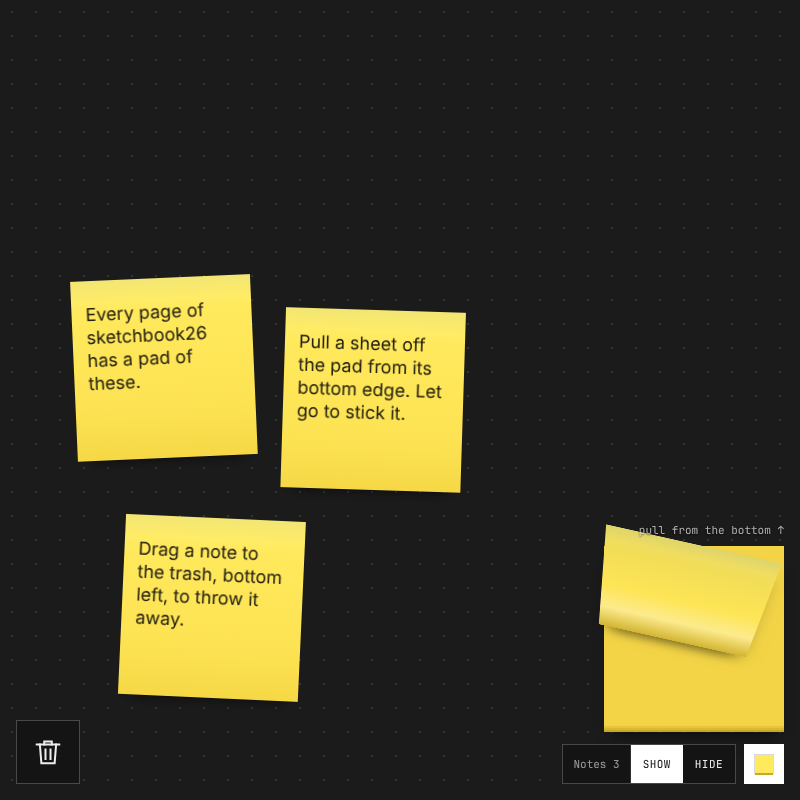
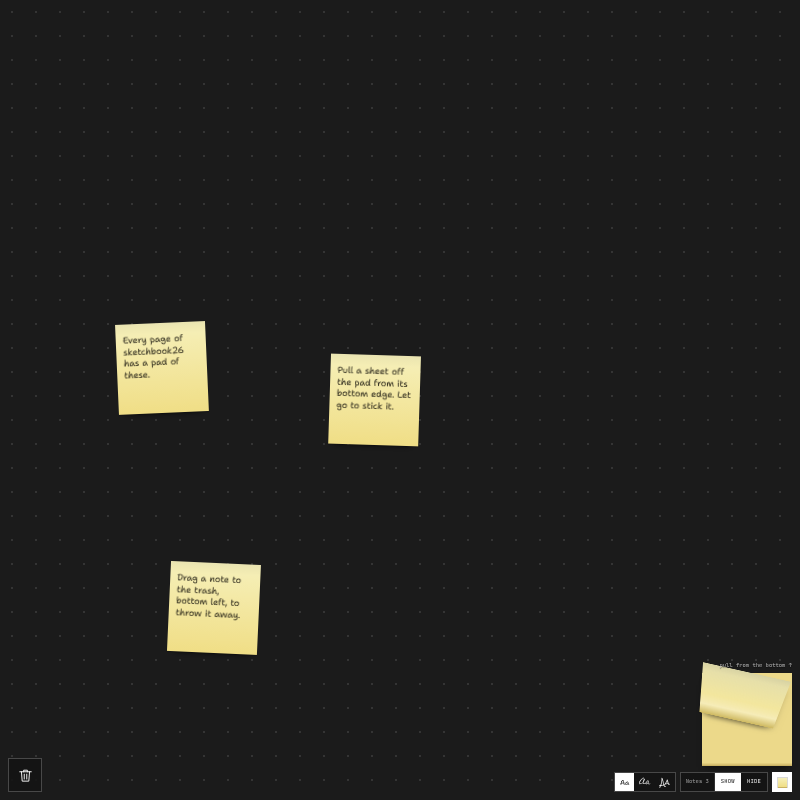
Sticky notes: lighter paper, half size, three pens
- Paper is now a #F6F0BA to #F0DE86 gradient, with the pad edges retinted to match.
- Everything is drawn at SCALE = 0.5: notes, pad, peel distance, dock,
  trash. One constant to change.
- A pen control in the dock: Shantell Sans (default), Homemade Apple,
  Rock Salt. Each note keeps the pen it was peeled with, so its text
  always fits. The choice is remembered site-wide.

Claude-Session: https://claude.ai/code/session_01SpCwMU1UzHJQeiPvV7BcPv

Changed region(s): [[0.0625, 0.3438, 0.5938, 0.875], [0.7188, 0.6562, 1.0, 1.0], [0.0, 0.9062, 0.0938, 1.0]]

diff --git a/assets/sticky.js b/assets/sticky.js
@@ -8,6 +8,7 @@
  * - The square button at the bottom right brings out a pad of notes.
  * - Grab the bottom of the top sheet and pull: it peels off and follows the pointer.
  *   Let go anywhere and it sticks there. Start typing straight away.
+ * - Three pens (Shantell Sans, Homemade Apple, Rock Salt) in the dock; a note keeps the pen it was peeled with.
  * - Notes never grow or resize and have one font size. When a note is full it
  *   stops taking text: grab another one from the pad.
  * - Drag a note onto the trash can at the bottom left and let go to throw it away.
@@ -25,8 +26,20 @@
   const OPEN_ON_LOAD = !!script && script.dataset.open === 'true';
   const SEED = !!script && script.dataset.seed === 'true';
 
-  const SIZE = 180;          // note size in CSS px, the same on every page and device
-  const PEEL = 110;          // how far (px) the bottom has to be pulled before the sheet comes off
+  // Everything below is designed at full size and drawn at SCALE (Max, 2026-11-22: half size).
+  const SCALE = 0.5;
+  const BASE = 180;          // note size at full scale
+  const SIZE = BASE * SCALE; // note size in CSS px, the same on every page and device
+  const PEEL = 110 * SCALE;  // how far (px) the bottom has to be pulled before the sheet comes off
+  const PERSP = 700 * SCALE; // perspective for the peel
+  const FONT_KEY = 'sb26.sticky.font';
+  // The pens. Each note keeps the one it was peeled with, so its text always fits.
+  const FONTS = [
+    { id: 'shantell', name: 'Shantell Sans', family: "'Shantell Sans', 'Comic Sans MS', cursive", lh: 23 },
+    { id: 'apple', name: 'Homemade Apple', family: "'Homemade Apple', cursive", lh: 27 },
+    { id: 'salt', name: 'Rock Salt', family: "'Rock Salt', cursive", lh: 27 },
+  ];
+  const fontOf = (id) => FONTS.find((f) => f.id === id) || FONTS[0];
   const GRAB_FROM = 0.45;    // the sheet can only be grabbed below this fraction of its height
   const path = location.pathname.replace(/index\.html$/, '').replace(/\/*$/, '/');
   const KEY = 'sb26.sticky:' + path;
@@ -49,8 +62,8 @@
   .sb26.sb-hidden.sb-layer, .sb26.sb-hidden.sb-trash, #sb26s.sb-hidden .sb-pad, #sb26s.sb-hidden .sb-padbtn { display: none; }
 
   /* one sheet of paper: the pad's top sheet and every note on the page */
-  .sb26 .sb-paper { position: absolute; left: 0; top: 0; width: ${SIZE}px; height: ${SIZE}px; pointer-events: auto; touch-action: none;
-    background: linear-gradient(180deg, #fff27a 0%, #ffe95c 18%, #fde353 70%, #f6d846 100%);
+  .sb26 .sb-paper { position: absolute; left: 0; top: 0; width: ${BASE}px; height: ${BASE}px; pointer-events: auto; touch-action: none;
+    background: linear-gradient(180deg, #f6f0ba 0%, #f0de86 100%);
     transform-origin: 50% 0; will-change: transform; -webkit-user-select: none; user-select: none; }
   .sb26 .sb-paper::before { content: ''; position: absolute; left: 0; right: 0; top: 0; height: 22px; background: linear-gradient(180deg, rgba(0,0,0,.05), rgba(0,0,0,0)); pointer-events: none; }
   .sb26 .sb-shade { position: absolute; inset: 0; pointer-events: none; opacity: 0;
@@ -67,21 +80,23 @@
 
   .sb26 .sb-ta { position: absolute; left: 14px; right: 14px; top: 22px; bottom: 14px; width: auto; height: auto; margin: 0; padding: 0;
     border: 0; outline: 0; resize: none; overflow: hidden; background: transparent; color: #1d1a10; caret-color: #1d1a10;
-    font: 400 18px/23px 'Schibsted Grotesk', system-ui, -apple-system, 'Segoe UI', sans-serif; overflow-wrap: anywhere; white-space: pre-wrap;
+    font-size: 18px; line-height: 23px; font-family: 'Shantell Sans', cursive; overflow-wrap: anywhere; white-space: pre-wrap;
     pointer-events: none; -webkit-user-select: text; user-select: text; }
   .sb26 .sb-editing .sb-ta { pointer-events: auto; }
+  .sb26 .sb-f-apple .sb-ta { font-family: 'Homemade Apple', cursive; line-height: 27px; }
+  .sb26 .sb-f-salt .sb-ta { font-family: 'Rock Salt', cursive; line-height: 27px; }
   .sb26 .sb-ta::placeholder { color: rgba(60,50,10,.35); }
   .sb26 .sb-ta::selection { background: rgba(0,0,0,.16); }
 
   /* the pad */
-  .sb26 .sb-pad { position: absolute; right: 16px; bottom: 68px; width: ${SIZE}px; height: ${SIZE + 8}px;
+  .sb26 .sb-pad { position: absolute; right: 16px; bottom: 68px; width: ${BASE}px; height: ${BASE + 8}px;
     transition: transform .3s cubic-bezier(.2,.9,.3,1.1), opacity .2s; }
   .sb26 .sb-pad.sb-closed { transform: translateY(24px); opacity: 0; visibility: hidden; transition: transform .2s, opacity .2s, visibility 0s .2s; }
-  .sb26 .sb-under { position: absolute; left: 0; width: ${SIZE}px; height: ${SIZE}px; background: #ecc93c; pointer-events: none; }
-  .sb26 .sb-under:nth-child(1) { top: 8px; background: #c9a826; box-shadow: 0 10px 14px -8px rgba(0,0,0,.6); }
-  .sb26 .sb-under:nth-child(2) { top: 6px; background: #dcb832; }
-  .sb26 .sb-under:nth-child(3) { top: 4px; background: #e8c63c; }
-  .sb26 .sb-under:nth-child(4) { top: 2px; background: #f3d446; }
+  .sb26 .sb-under { position: absolute; left: 0; width: ${BASE}px; height: ${BASE}px; background: #e6d47e; pointer-events: none; }
+  .sb26 .sb-under:nth-child(1) { top: 8px; background: #c9b263; box-shadow: 0 10px 14px -8px rgba(0,0,0,.6); }
+  .sb26 .sb-under:nth-child(2) { top: 6px; background: #d8c172; }
+  .sb26 .sb-under:nth-child(3) { top: 4px; background: #e3ce7e; }
+  .sb26 .sb-under:nth-child(4) { top: 2px; background: #ecd98a; }
   .sb26 .sb-sheet { cursor: default; box-shadow: 0 1px 0 rgba(0,0,0,.12); }
   .sb26 .sb-sheet.sb-grab-zone { cursor: grab; }
   .sb26 .sb-sheet.sb-peeling { cursor: grabbing; box-shadow: 0 18px 22px -12px rgba(0,0,0,.55); }
@@ -90,7 +105,7 @@
   @keyframes sb-fresh { from { opacity: 0; } }
   /* a corner that is already lifting a little, so it is clear where to grab */
   .sb26 .sb-ear { position: absolute; right: 0; bottom: 0; width: 20px; height: 20px; pointer-events: none; transition: width .15s, height .15s;
-    background: linear-gradient(315deg, rgba(0,0,0,0) 0 48%, rgba(90,70,0,.22) 50%, #fff6a0 54%, #f5da55 100%); }
+    background: linear-gradient(315deg, rgba(0,0,0,0) 0 48%, rgba(90,70,0,.22) 50%, #fbf7d6 54%, #efdf93 100%); }
   .sb26 .sb-sheet.sb-grab-zone .sb-ear { width: 30px; height: 30px; }
   .sb26 .sb-sheet.sb-peeling .sb-ear { width: 0; height: 0; }
   .sb26 .sb-hint { position: absolute; right: 0; bottom: calc(100% + 8px); white-space: nowrap; color: rgba(238,238,238,.7); text-shadow: 0 1px 2px rgba(0,0,0,.6); pointer-events: none; transition: opacity .3s; }
@@ -103,11 +118,12 @@
   .sb26 .sb-seg button { border: 0; background: none; padding: 0 12px; cursor: pointer; text-transform: uppercase; letter-spacing: .04em; }
   .sb26 .sb-seg button[aria-pressed="true"] { background: #fff; color: #111; }
   .sb26 .sb-seg button:not([aria-pressed="true"]):hover { background: rgba(255,255,255,.08); }
+  .sb26 .sb-fonts button { text-transform: none; letter-spacing: 0; font-size: 14px; padding: 0 10px; }
   .sb26 .sb-padbtn { width: 40px; height: 40px; padding: 0; border: 1px solid rgba(255,255,255,.22); background: rgba(20,20,20,.9); cursor: pointer; display: grid; place-items: center; }
   .sb26 .sb-padbtn:hover { border-color: rgba(255,255,255,.5); }
   .sb26 .sb-padbtn[aria-expanded="true"] { background: #fff; border-color: #fff; }
-  .sb26 .sb-padbtn i { display: block; width: 18px; height: 18px; background: #ffe95c; box-shadow: 0 2px 0 #c9a826; }
-  .sb26 .sb-padbtn[aria-expanded="true"] i { box-shadow: 0 2px 0 #c9a826, 0 0 0 1px rgba(0,0,0,.15); }
+  .sb26 .sb-padbtn i { display: block; width: 18px; height: 18px; background: linear-gradient(180deg, #f6f0ba, #f0de86); box-shadow: 0 2px 0 #c9b263; }
+  .sb26 .sb-padbtn[aria-expanded="true"] i { box-shadow: 0 2px 0 #c9b263, 0 0 0 1px rgba(0,0,0,.15); }
   .sb26 button:focus-visible { outline: 2px solid #28e5b0; outline-offset: 2px; }
 
   /* the trash can */
@@ -127,12 +143,15 @@
     .sb26 .sb-note.sb-full, .sb26 .sb-sheet.sb-fresh, .sb26.sb-trash.sb-gulp { animation: none; }
   }`;
 
+  // Draw the stylesheet at SCALE: every length over 1.5px is scaled; hairlines stay.
+  const scaledCss = css.replace(/(\d*\.?\d+)px/g, (m, v) => (Number(v) <= 1.5 ? m : +(Number(v) * SCALE).toFixed(2) + 'px'));
+
   function addFonts() {
     const have = [...document.querySelectorAll('link[rel="stylesheet"]')].map((l) => l.href).join(' ');
-    if (/Schibsted\+Grotesk/.test(have) && /JetBrains\+Mono/.test(have)) return;
+    if (/Shantell\+Sans/.test(have)) return;
     const l = document.createElement('link');
     l.rel = 'stylesheet';
-    l.href = 'https://fonts.googleapis.com/css2?family=JetBrains+Mono&family=Schibsted+Grotesk:wght@400&display=swap';
+    l.href = 'https://fonts.googleapis.com/css2?family=JetBrains+Mono&family=Shantell+Sans&family=Homemade+Apple&family=Rock+Salt&display=swap';
     document.head.append(l);
   }
 
@@ -162,7 +181,10 @@
   padBtn.title = 'Sticky notes';
   padBtn.setAttribute('aria-label', 'Sticky note pad');
   padBtn.setAttribute('aria-expanded', 'false');
-  dock.append(seg, padBtn);
+  const fontSeg = el('div', 'sb-seg sb-fonts', FONTS.map((f) => `<button type="button" data-f="${f.id}" title="${f.name}" aria-label="${f.name}" style="font-family:${f.family.replace(/"/g, '')}">Aa</button>`).join(''));
+  fontSeg.setAttribute('role', 'group');
+  fontSeg.setAttribute('aria-label', 'Pen for the next note');
+  dock.append(fontSeg, seg, padBtn);
   root.append(pad, dock);
   const parts = [layer, root, trash];
 
@@ -179,6 +201,13 @@
   let notes = [];            // { id, fx (fraction of page width), py (page px), r, text, z, el, ta }
   let topZ = 1;
   let visible = store.get(VIS_KEY, true) !== false;
+  let font = fontOf(store.get(FONT_KEY, FONTS[0].id)).id;
+  function setFont(id) {
+    font = fontOf(id).id;
+    store.set(FONT_KEY, font);
+    for (const b of fontSeg.querySelectorAll('button')) b.setAttribute('aria-pressed', String(b.dataset.f === font));
+    if (sheet) sheet.className = sheet.className.replace(/ ?sb-f-\w+/g, '') + ` sb-f-${font}`;
+  }
 
   // Page width (without the scrollbar). x is kept as a fraction of it, y in page px.
   const W = () => document.documentElement.clientWidth || window.innerWidth;
@@ -187,7 +216,7 @@
   const uid = () => Date.now().toString(36) + Math.random().toString(36).slice(2, 6);
 
   function save() {
-    store.set(KEY, notes.map(({ id, fx, py, r, text, z }) => ({ id, fx, py: Math.round(py), r, text, z })));
+    store.set(KEY, notes.map(({ id, fx, py, r, text, z, f }) => ({ id, fx, py: Math.round(py), r, text, z, f })));
     updateCount();
   }
   let saveTimer = 0;
@@ -216,7 +245,7 @@
   // Top-left corner in page px: x from the stored fraction of the page width
   // (so notes stay put across window sizes), y as stored.
   function placeOf(n) {
-    const x = clamp(n.fx * W() - SIZE / 2, -SIZE + 48, W() - 48);
+    const x = clamp(n.fx * W() - SIZE / 2, -SIZE + 48 * SCALE, W() - 48 * SCALE);
     const y = Math.max(0, n.py - SIZE / 2);
     return { x, y };
   }
@@ -231,9 +260,9 @@
   const rest = (n) => `rotate(${n.r}deg)`;
 
   function makeNote(data) {
-    const n = { id: data.id || uid(), fx: data.fx, py: data.py ?? data.fy * window.innerHeight, r: data.r ?? 0, text: data.text || '', z: data.z || ++topZ };
+    const n = { id: data.id || uid(), fx: data.fx, py: data.py ?? data.fy * window.innerHeight, r: data.r ?? 0, text: data.text || '', z: data.z || ++topZ, f: fontOf(data.f || font).id };
     topZ = Math.max(topZ, n.z);
-    n.el = el('div', 'sb-paper sb-note');
+    n.el = el('div', `sb-paper sb-note sb-f-${n.f}`);
     n.ta = el('textarea', 'sb-ta');
     n.ta.value = n.text;
     n.ta.spellcheck = false;
@@ -318,7 +347,7 @@
 
   function overTrash(x, y) {
     const r = trash.getBoundingClientRect();
-    const m = 28; // generous: "drag it to the bottom left"
+    const m = 28 * SCALE; // generous: "drag it to the bottom left"
     return x > r.left - m && x < r.right + m && y > r.top - m && y < r.bottom + m;
   }
 
@@ -398,7 +427,7 @@
 
   let sheet;
   function newSheet() {
-    sheet = el('div', 'sb-paper sb-sheet sb-fresh');
+    sheet = el('div', `sb-paper sb-sheet sb-fresh sb-f-${font}`);
     sheet.append(el('div', 'sb-shade'), el('div', 'sb-ear'));
     pad.insertBefore(sheet, hint);
     sheet.addEventListener('pointermove', (e) => {
@@ -416,7 +445,7 @@
     const gx = e.clientX - box.left, gy = e.clientY - box.top;
     e.preventDefault();
     if (gy < SIZE * GRAB_FROM) { // the top is stuck down: a little wobble says "not here"
-      s.animate([{ transform: 'perspective(700px) rotateX(0)' }, { transform: 'perspective(700px) rotateX(-8deg)' }, { transform: 'perspective(700px) rotateX(0)' }], { duration: 220 });
+      s.animate([{ transform: `perspective(${PERSP}px) rotateX(0)` }, { transform: `perspective(${PERSP}px) rotateX(-8deg)` }, { transform: `perspective(${PERSP}px) rotateX(0)` }], { duration: 220 });
       return;
     }
     const id = e.pointerId;
@@ -449,7 +478,7 @@
       }
       rx = Math.min(rx, -6); // as soon as it's held, the bottom lifts off the pad a little
       state = { mx, my, rz, rx, dx, dy };
-      s.style.transform = `translate(${mx}px, ${my}px) perspective(700px) rotateZ(${rz}deg) rotateX(${rx}deg)`;
+      s.style.transform = `translate(${mx}px, ${my}px) perspective(${PERSP}px) rotateZ(${rz}deg) rotateX(${rx}deg)`;
       shade.style.opacity = String(clamp(0.3 + -rx / 60, 0, 1));
       return Math.hypot(dx, dy);
     };
@@ -485,11 +514,11 @@
       // Start from exactly where the peeling sheet was drawn, then flatten out in the hand.
       const { mx, my, rz, rx, dx, dy } = state;
       n.el.style.transition = 'none';
-      n.el.style.transform = `translate(${mx - dx}px, ${my - dy}px) perspective(700px) rotateZ(${rz}deg) rotateX(${rx}deg)`;
+      n.el.style.transform = `translate(${mx - dx}px, ${my - dy}px) perspective(${PERSP}px) rotateZ(${rz}deg) rotateX(${rx}deg)`;
       n.el.classList.add('sb-lifted');
       void n.el.offsetWidth;
       n.el.style.transition = 'transform .22s cubic-bezier(.2,.9,.3,1.1), box-shadow .2s';
-      n.el.style.transform = `translate(0px, 0px) perspective(700px) rotateZ(${n.r}deg) rotateX(0deg) scale(1.03)`;
+      n.el.style.transform = `translate(0px, 0px) perspective(${PERSP}px) rotateZ(${n.r}deg) rotateX(0deg) scale(1.03)`;
       setTimeout(() => { n.el.style.transition = ''; }, 240);
       s.remove();
       newSheet();
@@ -518,7 +547,7 @@
   function start() {
     addFonts();
     const style = el('style');
-    style.textContent = css;
+    style.textContent = scaledCss;
     document.head.append(style);
     document.body.append(layer, root, trash);
 
@@ -536,6 +565,11 @@
       const b = e.target.closest('button');
       if (b) setVisible(b.dataset.v === '1');
     });
+    fontSeg.addEventListener('click', (e) => {
+      const b = e.target.closest('button');
+      if (b) setFont(b.dataset.f);
+    });
+    setFont(font);
     setVisible(visible);
     if (OPEN_ON_LOAD && visible) setPad(true);
 
